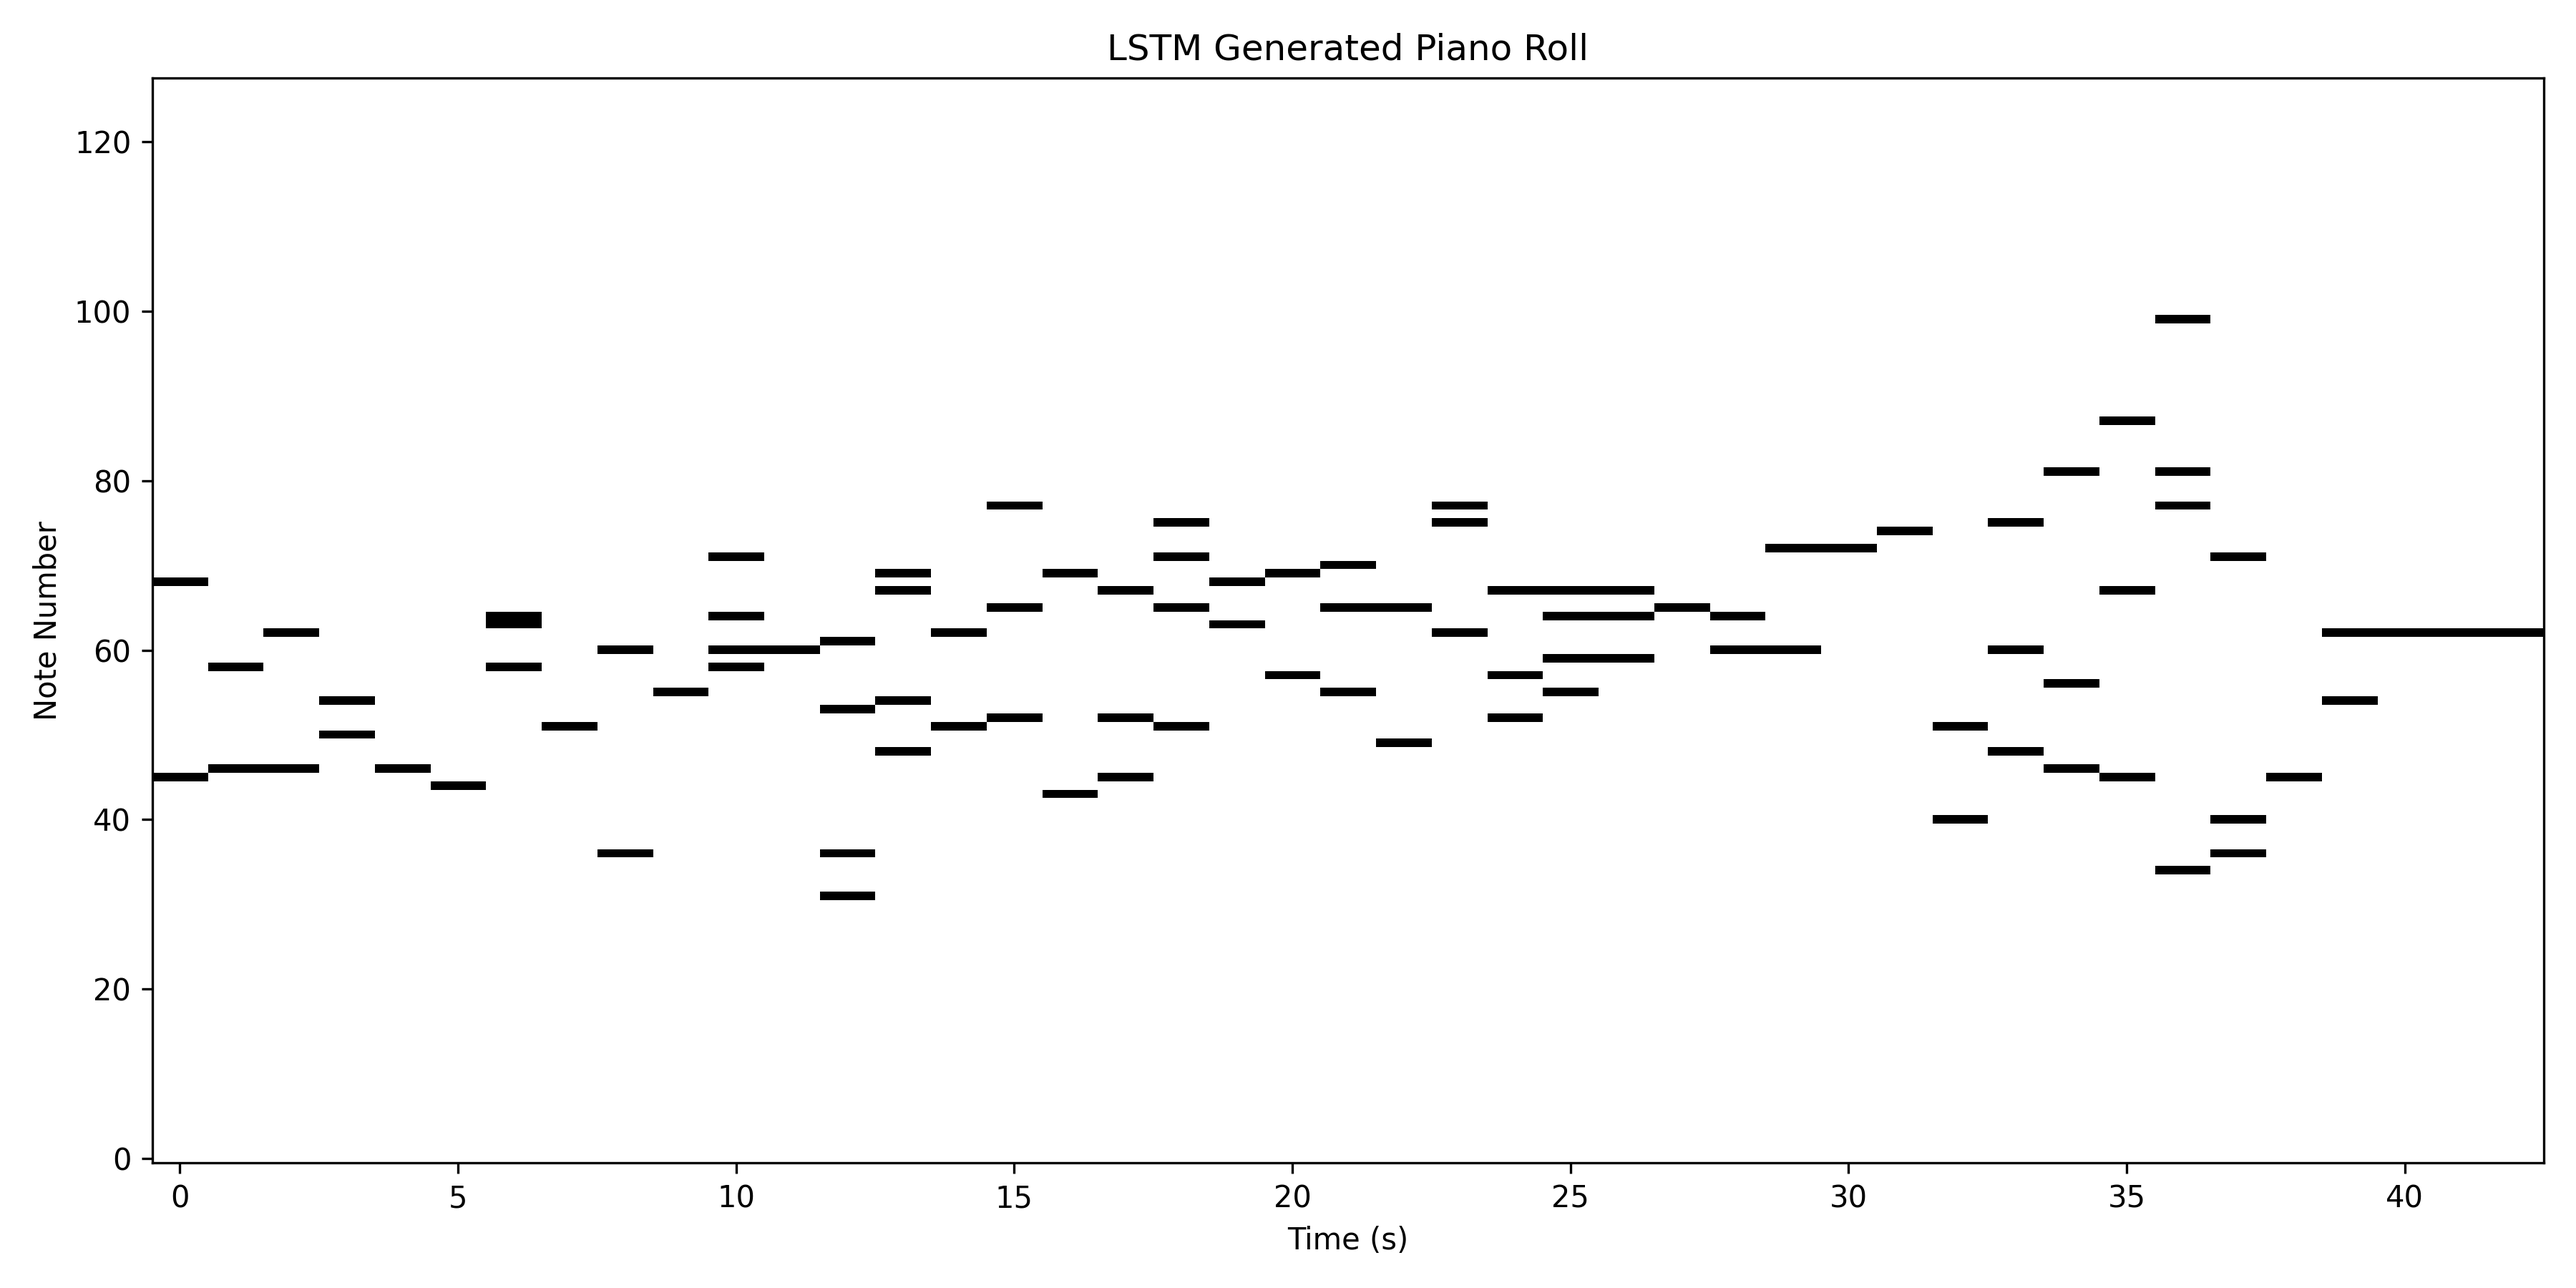
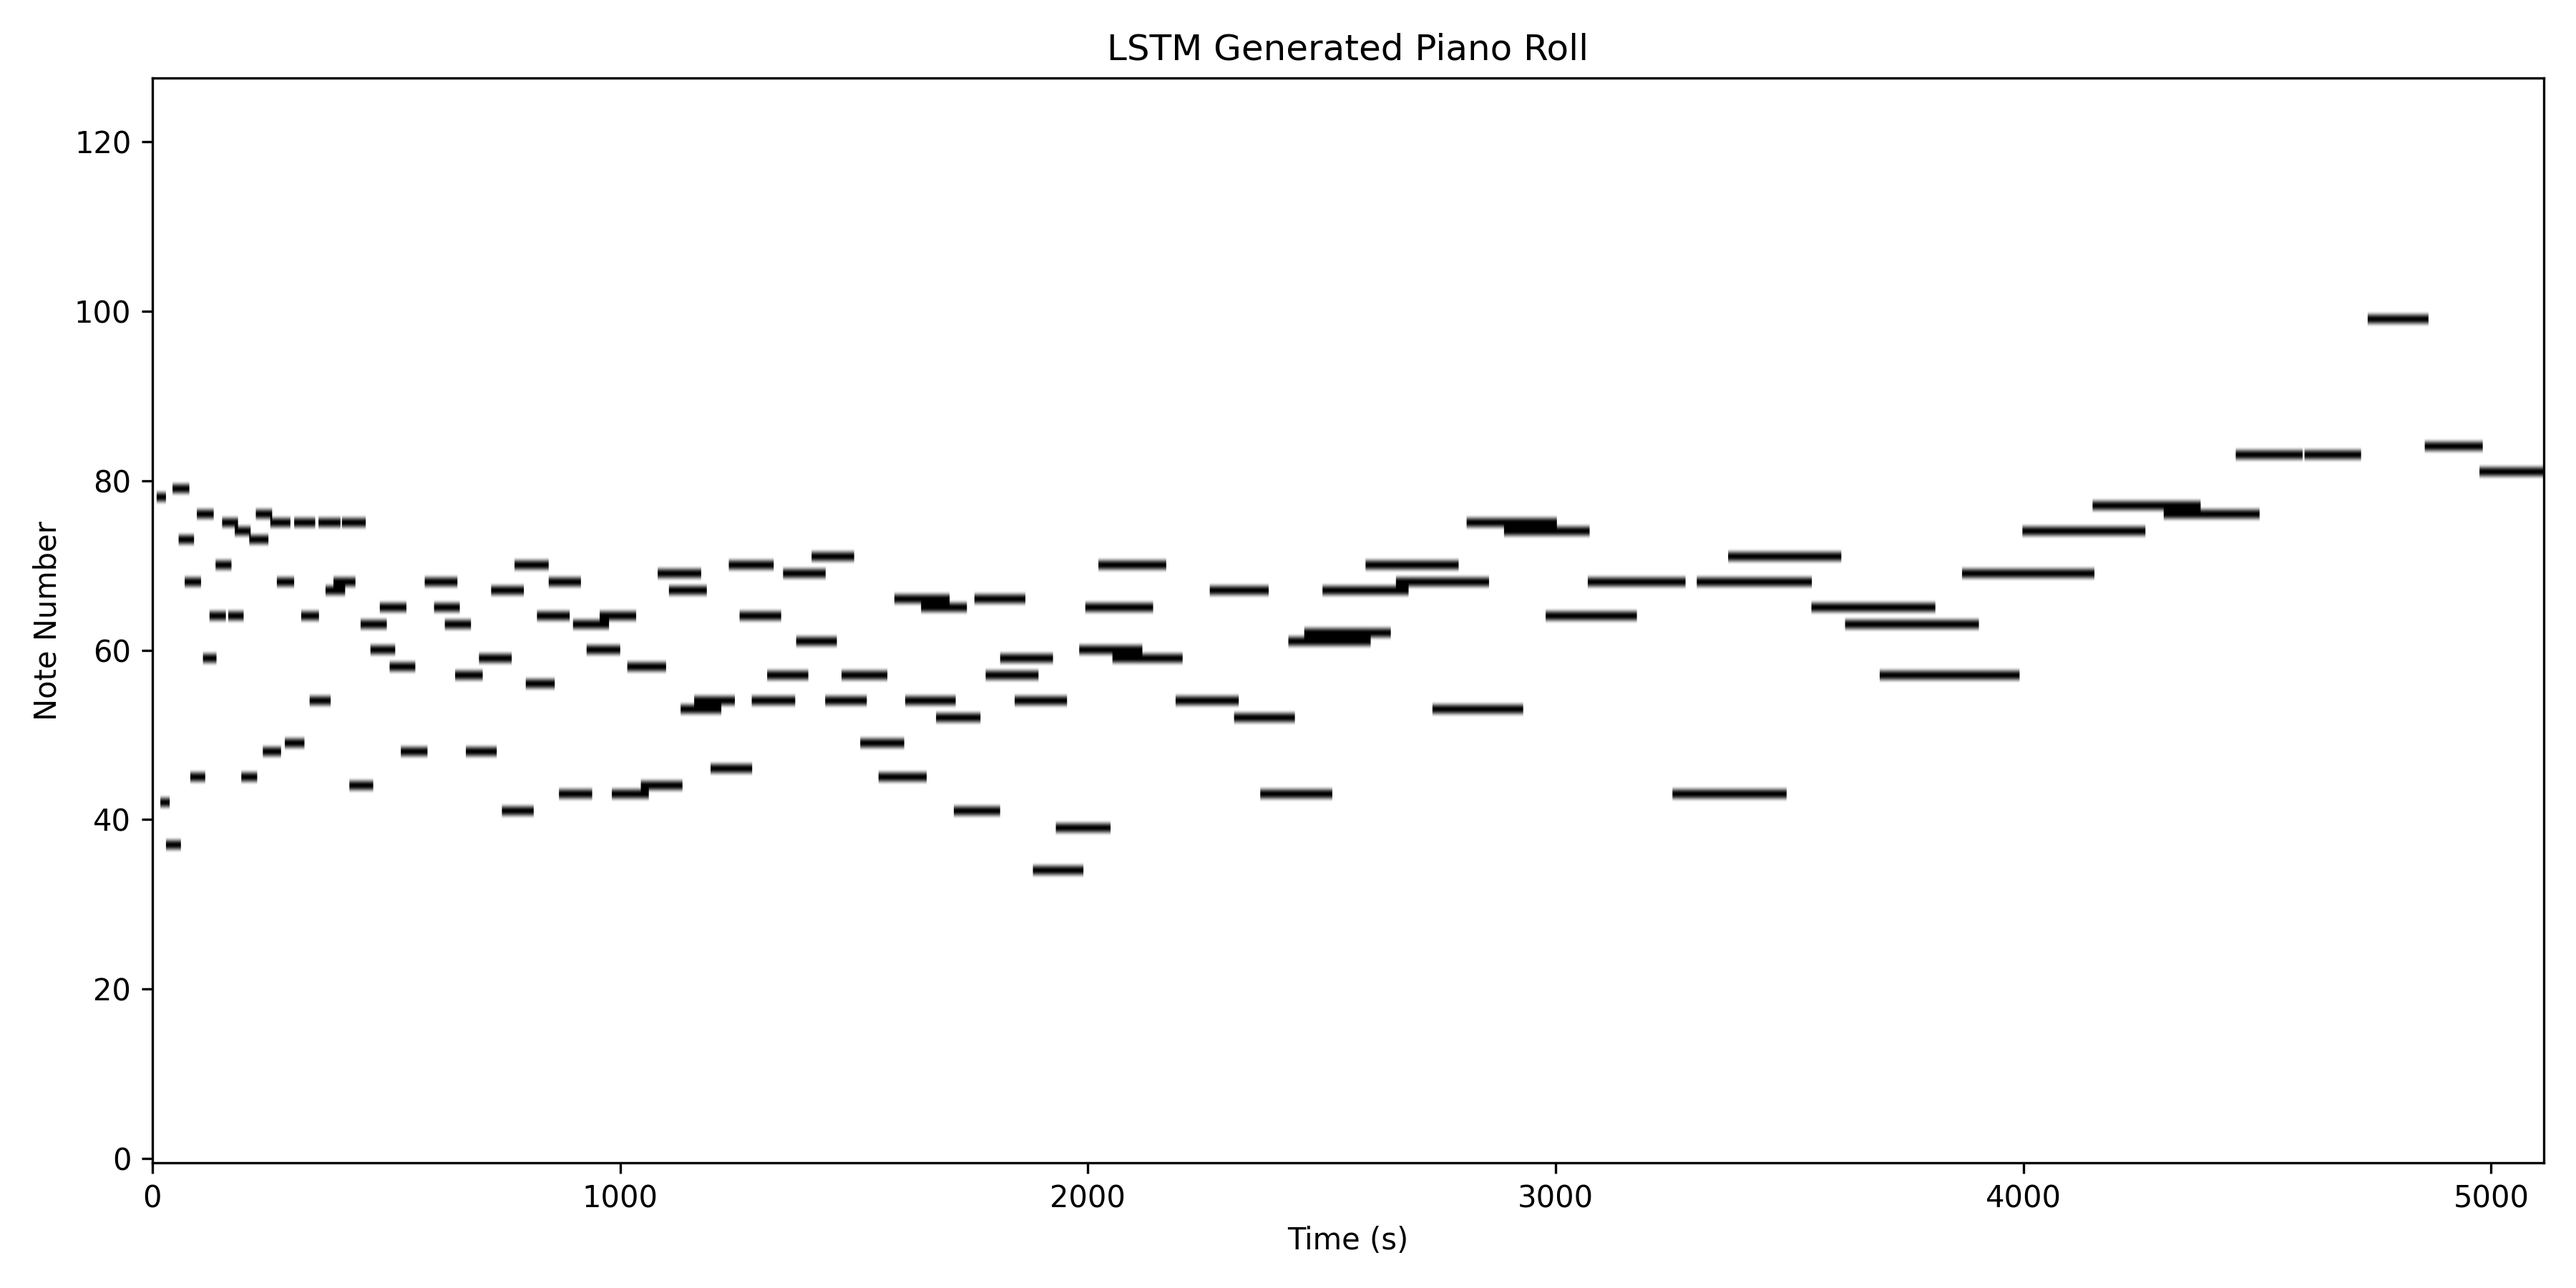
SOL Hyperparameters

diff --git a/train.py b/train.py
@@ -20,9 +20,9 @@ def main():
     - Takes length of sequence and number of files to load.
     """
     seq_len=25
-    max_files=100
+    max_files=1000
     batch_size=64
-    learning_rate=0.005
+    learning_rate=0.0001
     num_epochs=50
     """
     - Loads MIDI dataset from MAESTRO v3.0.0.

diff --git a/generation/image.py b/generation/image.py
@@ -48,7 +48,7 @@ if __name__ == '__main__':
     parser.add_argument(
         '--fs',
         type=int,
-        default=0.5,
+        default=100,
         help='Sampling frequency for piano roll frames per second (default: 100)'
     )
     args = parser.parse_args()

diff --git a/generation/generate.py b/generation/generate.py
@@ -17,9 +17,9 @@ output_midi= "output.mid"
 instrument_name = "Acoustic Grand Piano"
 seq_len = 25
 num_predictions = 120
-temperature = 2.0
+temperature = 1.0
 sample_rate = 16000
-time_stretch = 1.0
+time_stretch = 1.15
 
 def play_music(midi_filename):
     """
